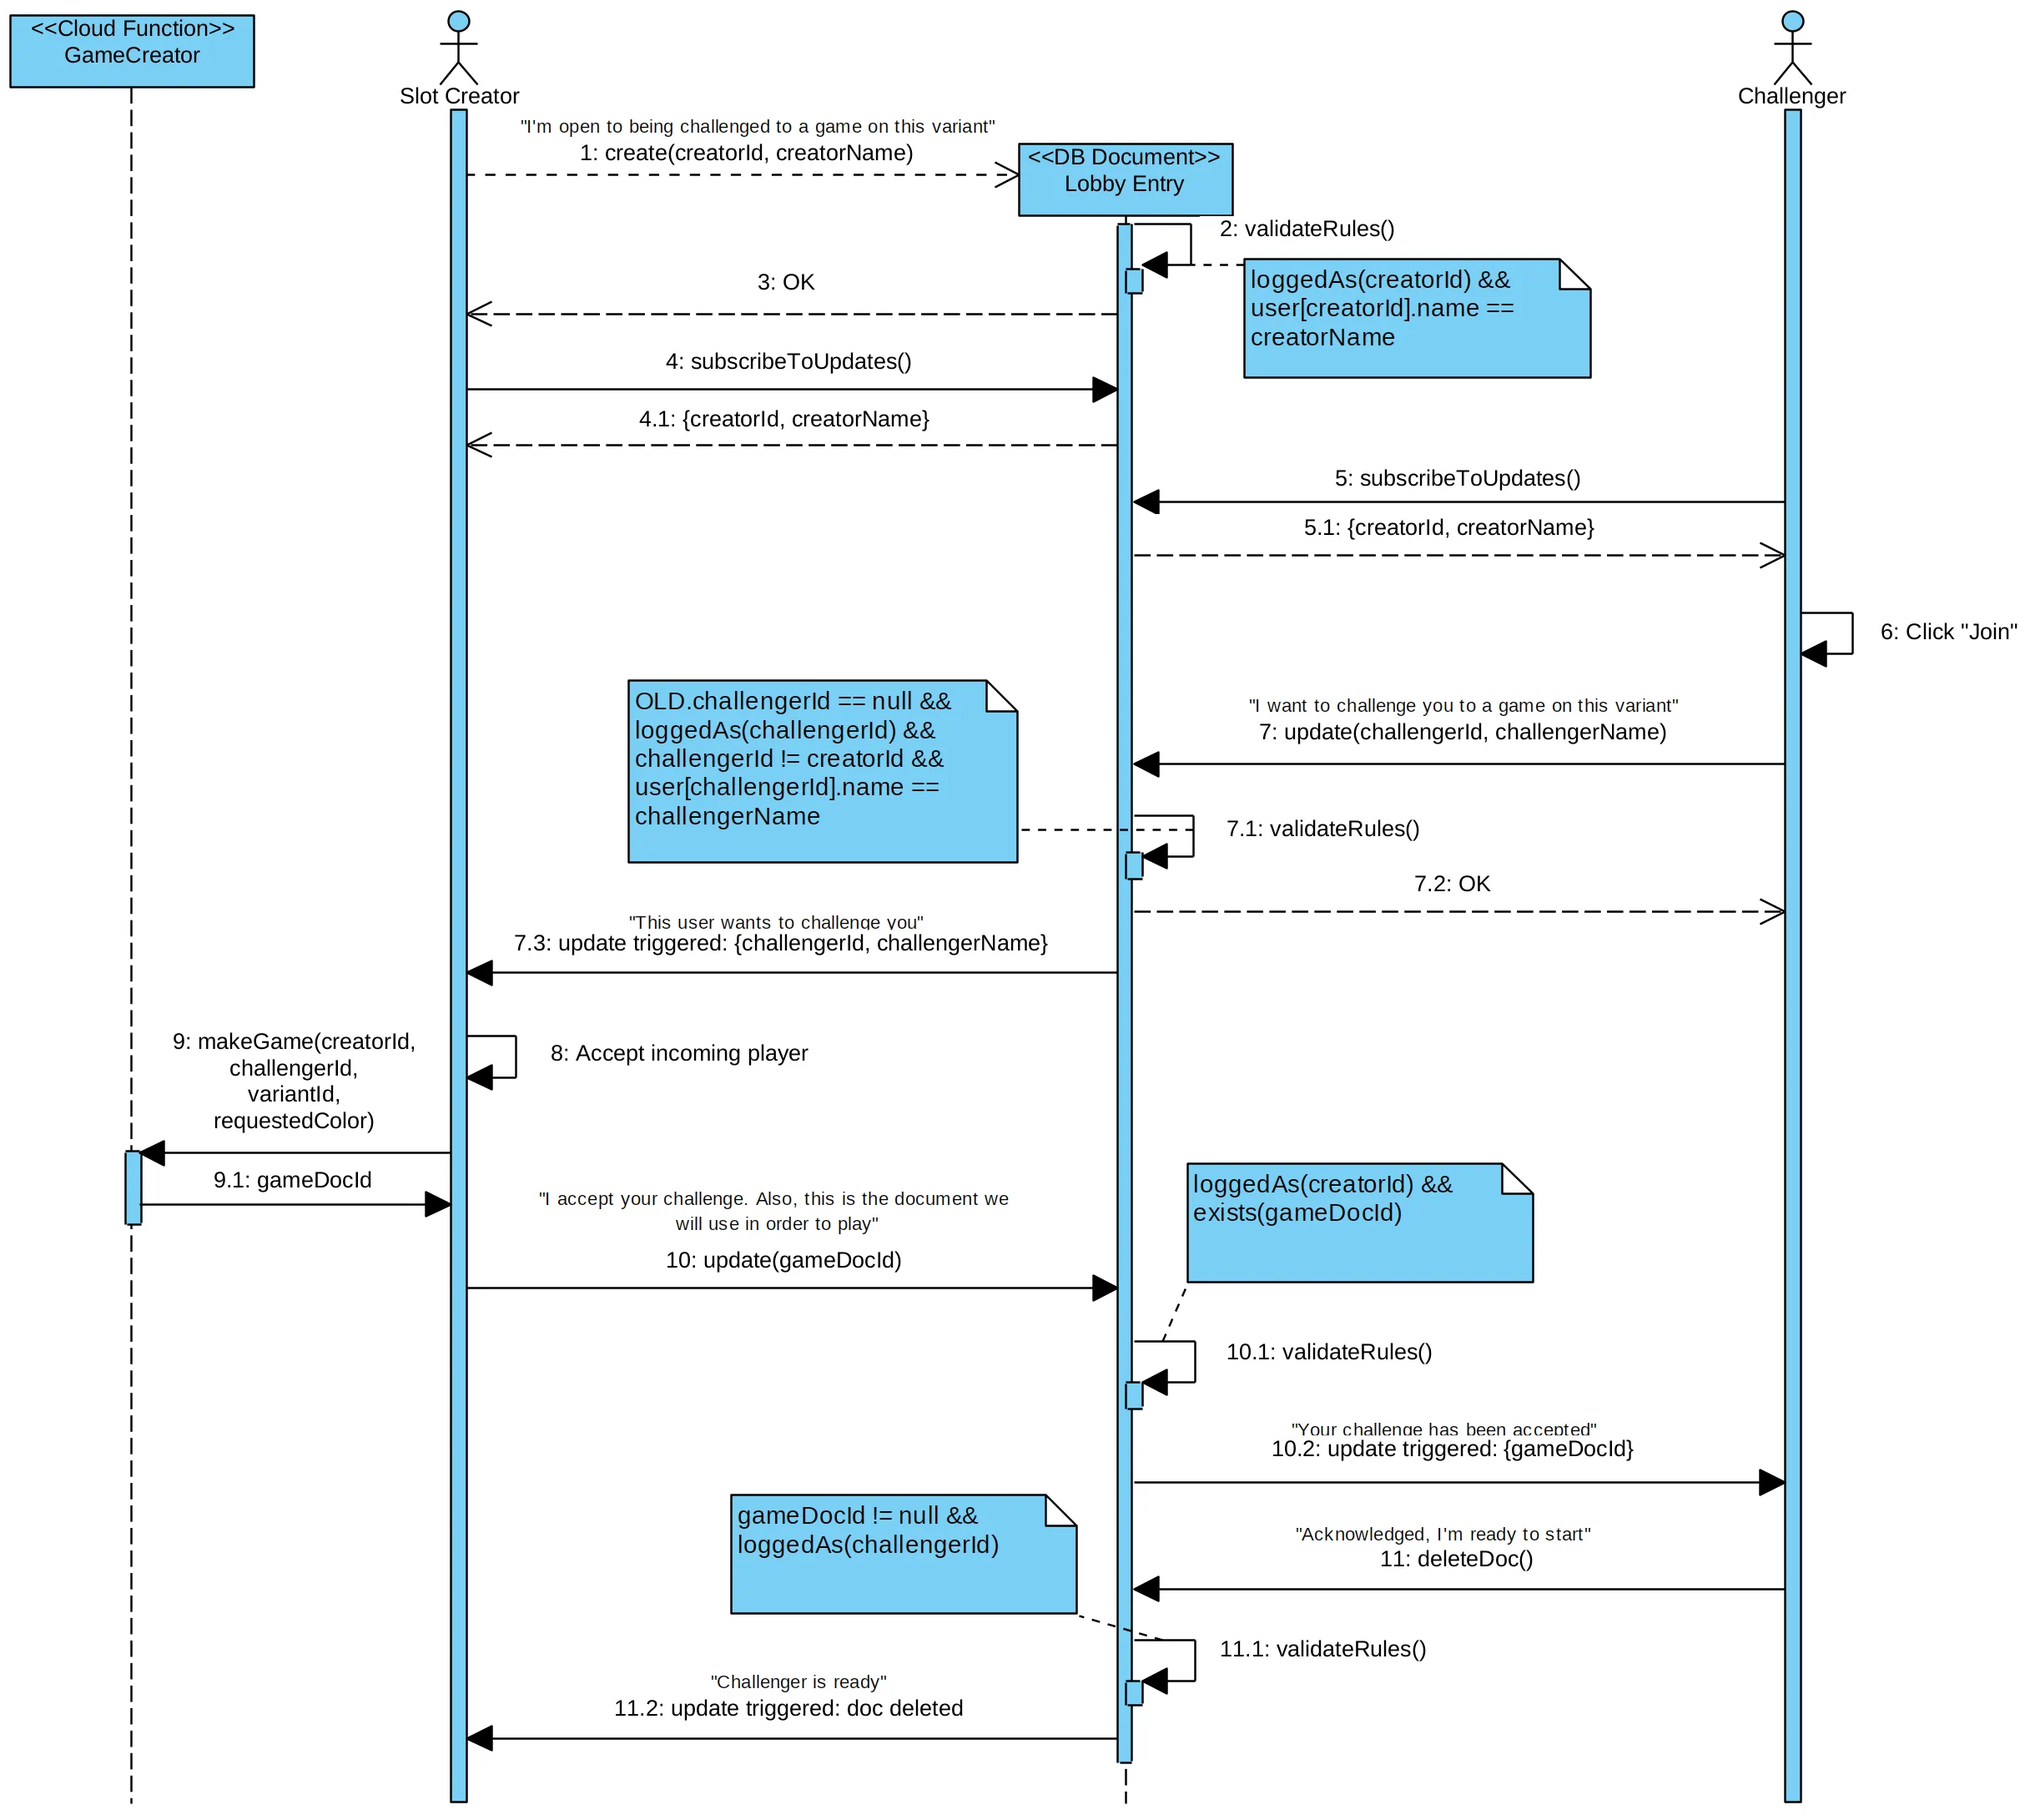
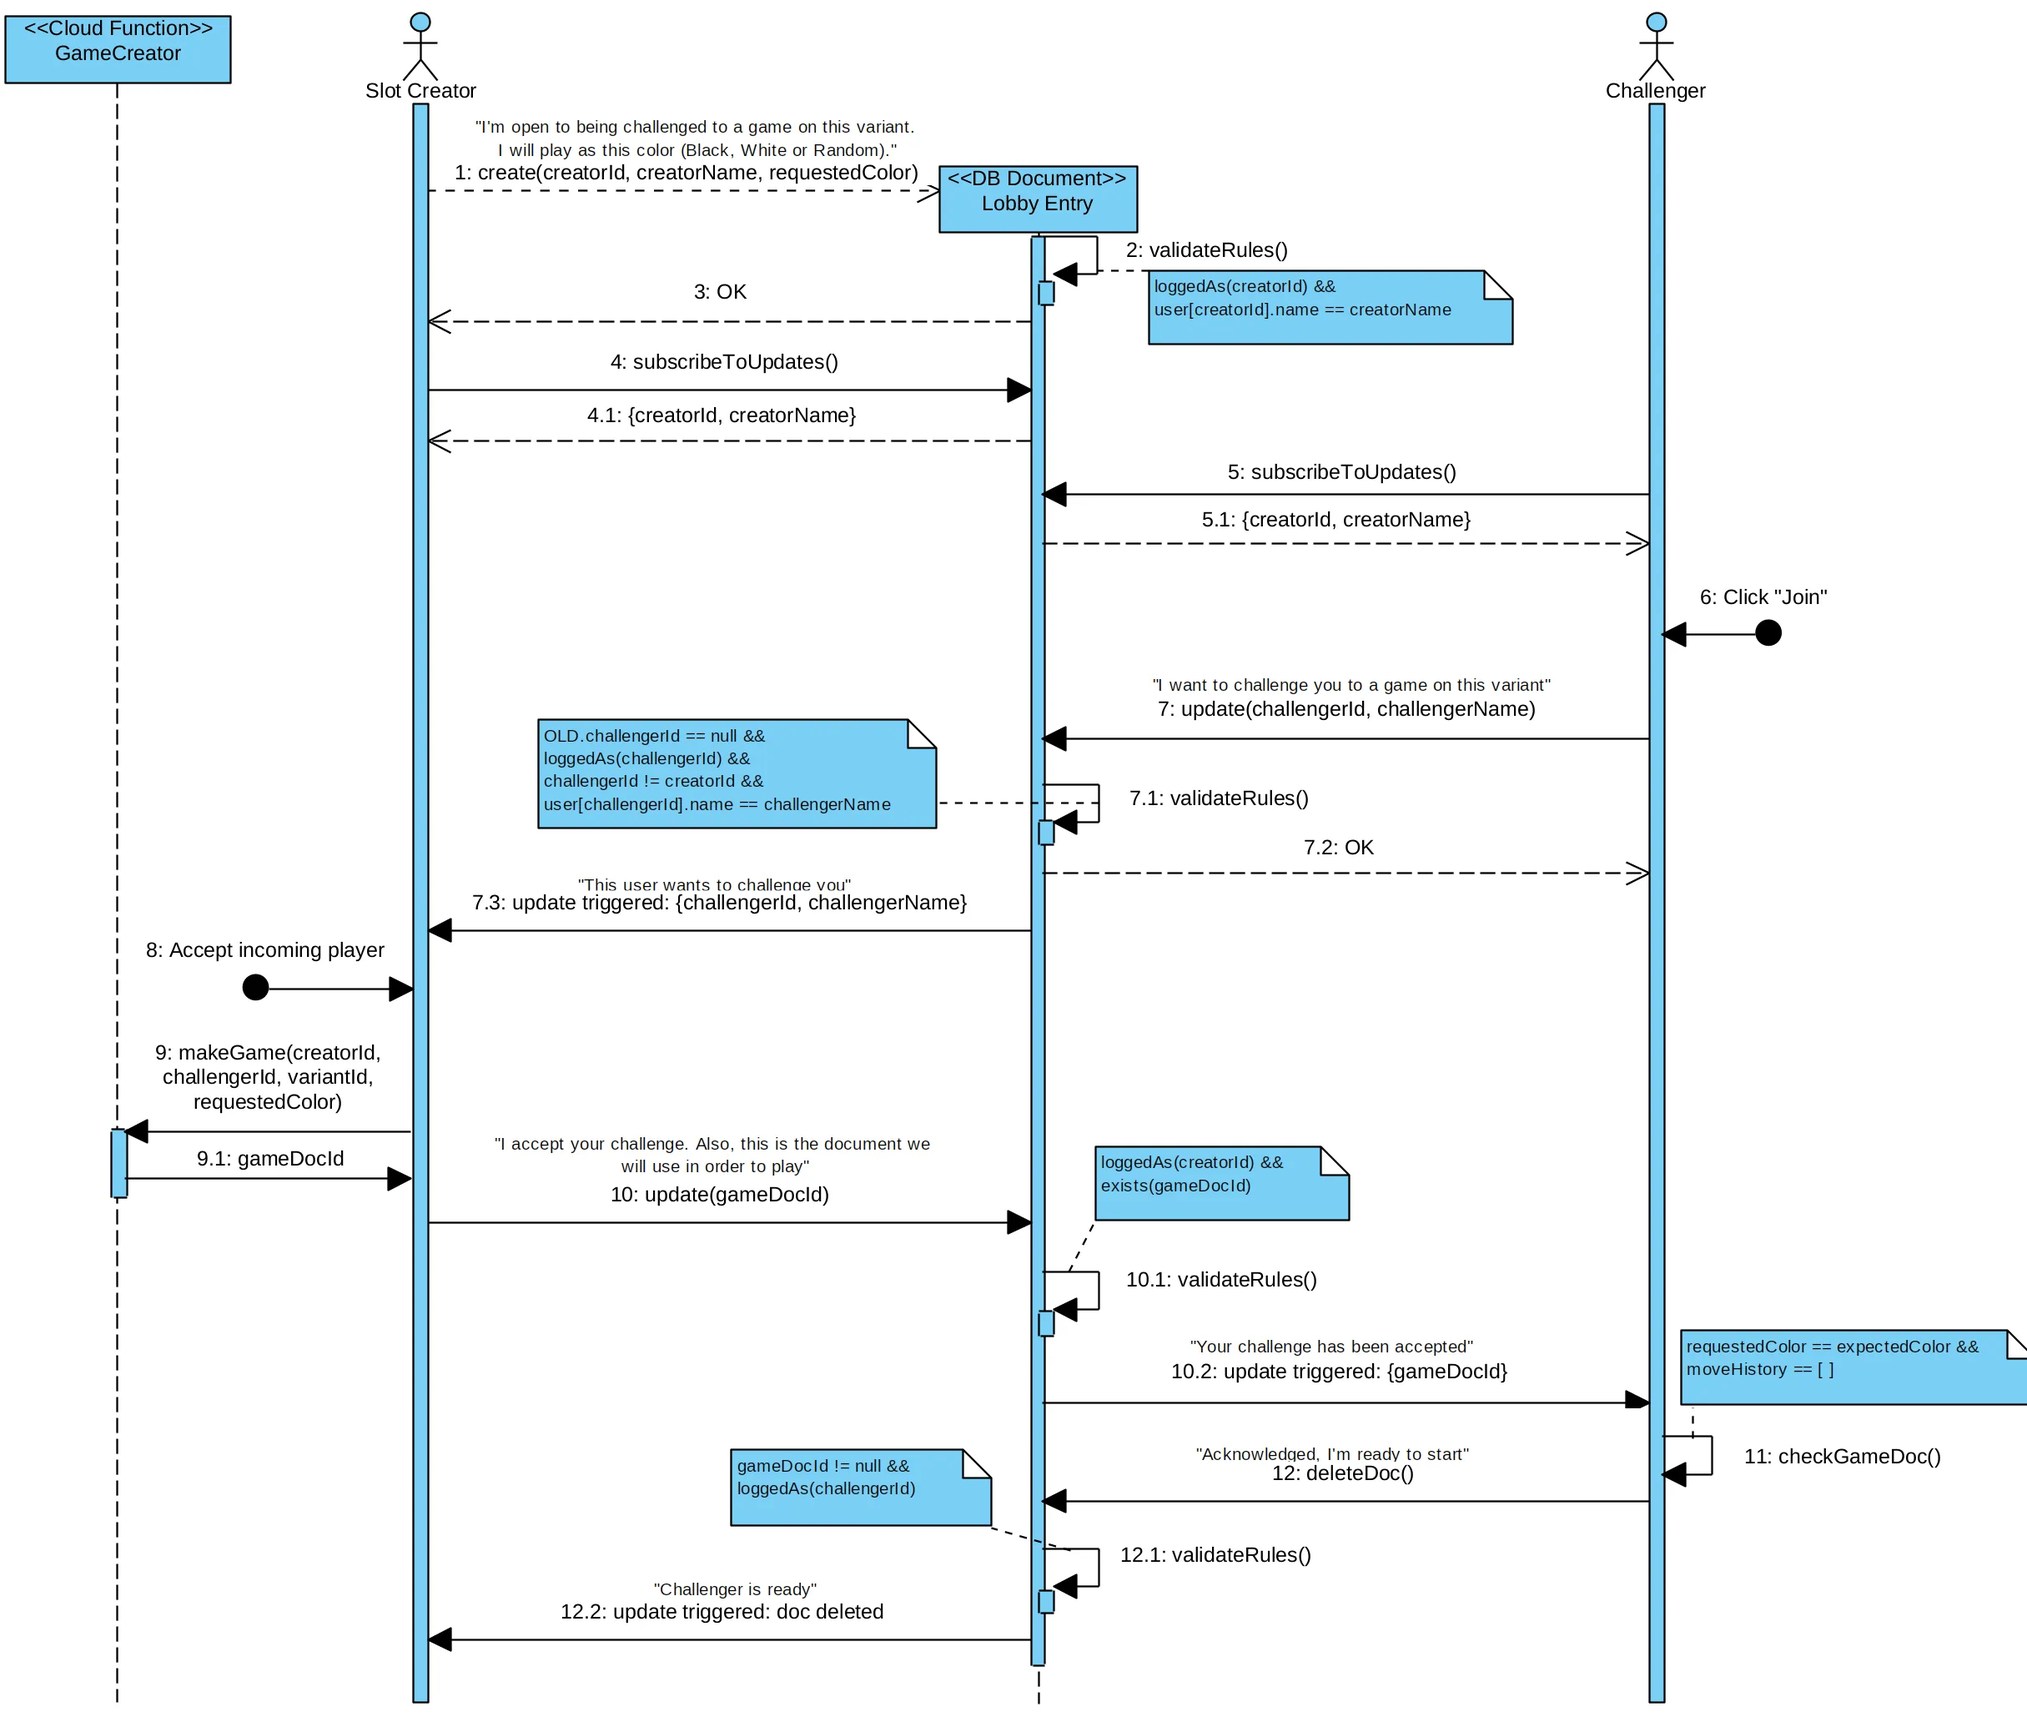
Update docs

Changed region(s): [[0.0309, 0.0, 1.0, 0.9951], [0.2781, 0.1555, 0.4635, 0.2488], [0.0, 0.0, 0.1236, 0.0622]]

diff --git a/docs/GameProtocol.md b/docs/GameProtocol.md
@@ -1,0 +1,22 @@
+# Game protocol
+
+This document describes the protocol used by the clients to communicate between each other while playing a game.
+
+Validation of the move legality can be CPU-intensive, so instead the backend only enforces the following rules:
+- The move history is a space-separated list of moves. Each move has the correct format (like `e2e4` or `e7e8=q`).
+- The move history cannot be rewritten or deleted (only appended to).
+- Only the player whose turn it is can make a move. They must also set the turn to the other player's color.
+
+The moves are validated by the clients, who must reach a consensus on whether a given move history is valid (if both players are using the same unmodified chess engine, no illegal moves should ever be made).
+
+If one of the players detects an illegal move, the game is canceled and the backend deletes the game document. This means that a malicious player could cancel a game at any time, 
+but detecting this is trivial (since no games should ever get canceled, both players will immediately be suspicious and should be investigated).
+
+## Success case
+
+![Sequence diagram of a successful move played](img/game.webp)
+
+
+## Failure case
+
+It's the same as the success case, except that on one of the calls to `validateHistory()` (messages 3, 6, 9 and 12), the client detects an illegal move and calls the cloud function `cancelGame`.
